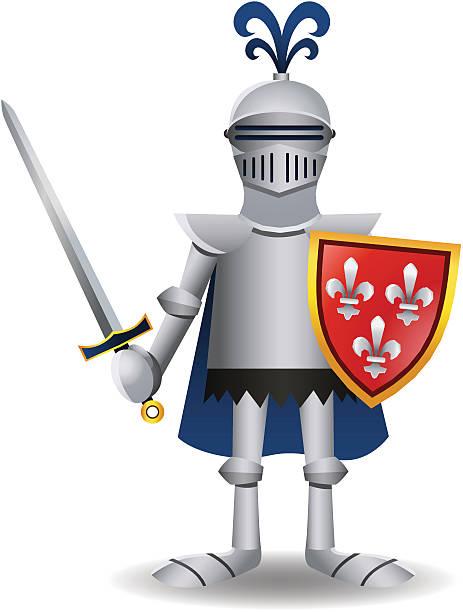
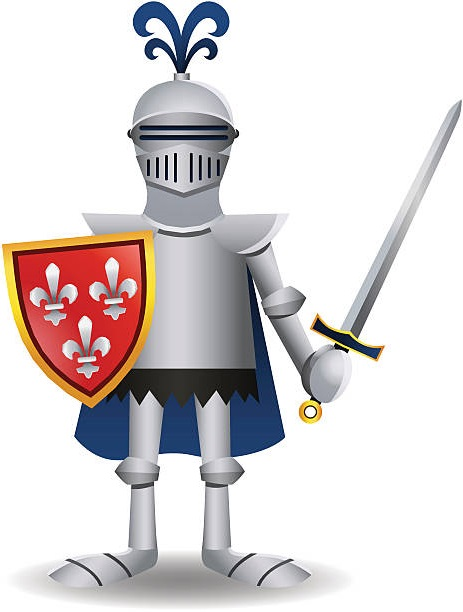
flipped knight and added intro outro

diff --git a/GameLogic.h b/GameLogic.h
@@ -1,6 +1,4 @@
 #pragma once
-namespace game
-{
 #ifndef GAMELOGIC
 #define GAMELOGIC
 
@@ -11,7 +9,10 @@ namespace game
 #include <Windows.h>
 #include <math.h>
 #include <time.h>
+#include <string>
 
+namespace game
+{
 	class Entity;
 	class Sprite;
 	class Player;
@@ -59,10 +60,9 @@ class GameLogic
 	class Entity
 	{
 	public:
-		Entity() {};
+		Entity(std::string name, COORD xy) {};
 		~Entity() {};
-		char marker;
-		char name[21];
+		std::string name[21];
 		COORD coord;
 	};
 
@@ -70,7 +70,10 @@ class GameLogic
 	{
 
 	public:
-		Sprite() {};
+		Sprite(std::string name, COORD xy , int Health, int MaxHealth, int Damage, int Exp, int Level, int Money)
+			:Entity(name, xy) {};
+		Sprite()
+			:Entity("", COORD{0,0}) {};
 		~Sprite() {};
 		int health;
 		int maxHealth;
@@ -83,9 +86,12 @@ class GameLogic
 	class Player : public Sprite
 	{
 	public:
-		Player() {};
+		Player(std::string name, COORD xy, int Health, int MaxHealth, int Damage, int Exp, int Level, int Money)
+			: Sprite(name, xy, Health, MaxHealth, Damage, Exp, Level, Money) {};
+		Player()
+			: Sprite(" ", COORD{0,0}, 0, 0, 0, 0, 0, 0) {};
 		~Player() {};
-		Room * roomLoc;
+		//Room * roomLoc;
 		int experience;
 		Item inventory[invSizeLimit];
 		Item * weapon;
@@ -93,38 +99,42 @@ class GameLogic
 
 	};
 
-	class NPC : public Entity
-	{
-	public:
-		NPC() {};
-		~NPC() {};
-		Item merchandise[merchSizeLimit];
-	};
+	//class NPC : public Entity
+	//{
+	//public:
+	//	NPC() {};
+	//	~NPC() {};
+	//	Item merchandise[merchSizeLimit];
+	//};
 	class Enemy : public Sprite
 	{
 	public:
-		Enemy() {};
+		Enemy(std::string name, COORD xy, int Health, int MaxHealth, int Damage, int Exp, int Level, int Money)
+			: Sprite(name, xy, Health, MaxHealth, Damage, Exp, Level, Money) {};
+
+		Enemy()
+		: Sprite(" ", COORD{ 0,0 }, 0, 0, 0, 0, 0, 0) {};
 		~Enemy() {};
 		Item loot;
 		int isBoss;//0 = normal enemy, 1 = boss
 	};
 
-	class Room
-	{//One enemy per room
-	public:
-		Room() {};
-		~Room() {};
-		int xSize;
-		int ySize;
-		int isPortal;
-		int entered;
-		Room * nDoor;
-		Room * sDoor;
-		Room * eDoor;
-		Room * wDoor;
-		Entity portal;
-		Enemy enemy;
-	};
+	//class Room
+	//{//One enemy per room
+	//public:
+	//	Room() {};
+	//	~Room() {};
+	//	int xSize;
+	//	int ySize;
+	//	int isPortal;
+	//	int entered;
+	//	Room * nDoor;
+	//	Room * sDoor;
+	//	Room * eDoor;
+	//	Room * wDoor;
+	//	Entity portal;
+	//	Enemy enemy;
+	//};
 
 	//enum to pass player choice , I thought it was less confusing than using ints
 	enum PlayerChoice

diff --git a/GameLogic.cpp b/GameLogic.cpp
@@ -3,28 +3,25 @@
 
 using namespace game;
 
-
-Player GameLogic::THE_PLAYER = Player{};
-static Room * delPointers[1000];
-static int delCounter;
-static Room * floorStart;
-static Room * floorEnd;
-static Player player;
-static NPC shopkeeper;
-static NPC innkeeper;
-static NPC blacksmith;
-static time_t t;
-static int difficulty;
-static int branch;
-static int location;
+Player GameLogic::THE_PLAYER = Player{(std::string) "Player",COORD{0,0} ,0,0,0,0,0,0 };
+Room *  GameLogic::delPointers[1000];
+int  GameLogic::delCounter;
+Room *  GameLogic::floorStart;
+Room *  GameLogic::floorEnd;
+Player  GameLogic::player;
+time_t  GameLogic::t;
+int  GameLogic::difficulty;
+int  GameLogic::branch;
+int  GameLogic::location;
 
 GameLogic::GameLogic()
 {
+
 }
 
 Enemy GameLogic::FightingWith()
 {
-	return Enemy{};
+	return Enemy{ "Guy",COORD{0,0},1,1,1,1,1,1 };
 }
 
 GameLogic::~GameLogic()

diff --git a/Main.cpp b/Main.cpp
@@ -14,7 +14,7 @@ int main(int argc, char** argv)
 	int screen = 0;
 
 	//Window creation
-	sf::RenderWindow App(sf::VideoMode(1500, 1500, 32), "TowerCrawl");
+	sf::RenderWindow App(sf::VideoMode(1000, 1000, 32), "TowerCrawl");
 
 	//Mouse cursor no more visible
 	App.setMouseCursorVisible(true);
@@ -23,6 +23,7 @@ int main(int argc, char** argv)
 	screen_Main sM; 
 	screen_Battle sB;
 	screen_Inventory sI;
+	screen_IntroOutro sIO;
 
 	//Build player class 
 	bool GameEnd = false;
@@ -33,6 +34,8 @@ int main(int argc, char** argv)
 	//sB.Run(App);
 	//GameEnd = true;
 	
+	//Display intro sequence
+	sIO.Run(App, true);
 
 	//Main loop
 	while (!GameEnd)//screens will run in the order they are arrranged
@@ -54,6 +57,7 @@ int main(int argc, char** argv)
 				  sB.Run(App);
 				  if (game::GameLogic::THE_PLAYER.health)
 				  {
+					  sIO.Run(App, false);
 				  }
 				break;
 			}

diff --git a/screen_Battle.cpp b/screen_Battle.cpp
@@ -9,11 +9,23 @@ screen_Battle::screen_Battle(void)
 
 int screen_Battle::Run(sf::RenderWindow &App)
 {
+	App.setTitle("Fight!");
+	//get player health
 	int Health = game::GameLogic::THE_PLAYER.health;
 	playing = true;
+
+	sf::RectangleShape Player;
+	sf::Texture texPlayer;
+	if (!texPlayer.loadFromFile("knight.jpg"))
+	{
+		std::cerr << "Knight didnt load";
+	}
+	Player.setTexture(&texPlayer, true);
+	Player.setPosition(20, 800);
+
 	sf::CircleShape shape(50.f,10);
 	shape.setFillColor(sf::Color::Red);
-	App.setTitle("BATTLE!");
+
 	sf::Font font;
 	if (!font.loadFromFile("OpenSans-Regular.ttf"))
 	{
@@ -60,6 +72,7 @@ int screen_Battle::Run(sf::RenderWindow &App)
 		App.draw(mouse);
 		App.draw(attack);
 		//App.draw(shape);
+		App.draw(Player);
 		App.display();
 
 	}

diff --git a/screens.h b/screens.h
@@ -8,5 +8,6 @@
 #include "screen_Main.h" //this handles player movement 
 #include "screen_Inventory.h"//this handles player movement 
 #include "screen_Battle.h" //this handles player movement 
+#include "screen_IntroOutro.h" //this handles player movement 
 
 #endif // SCREENS_HPP_INCLUDED

diff --git a/screen_IntroOutro.h b/screen_IntroOutro.h
@@ -10,5 +10,6 @@ private:
 	bool playing;
 public:
 	screen_IntroOutro(void);
-	virtual int Run(sf::RenderWindow &App);
+	int Run(sf::RenderWindow &App, bool);
+	virtual int Run(sf::RenderWindow &App) { return 0; };
 };
